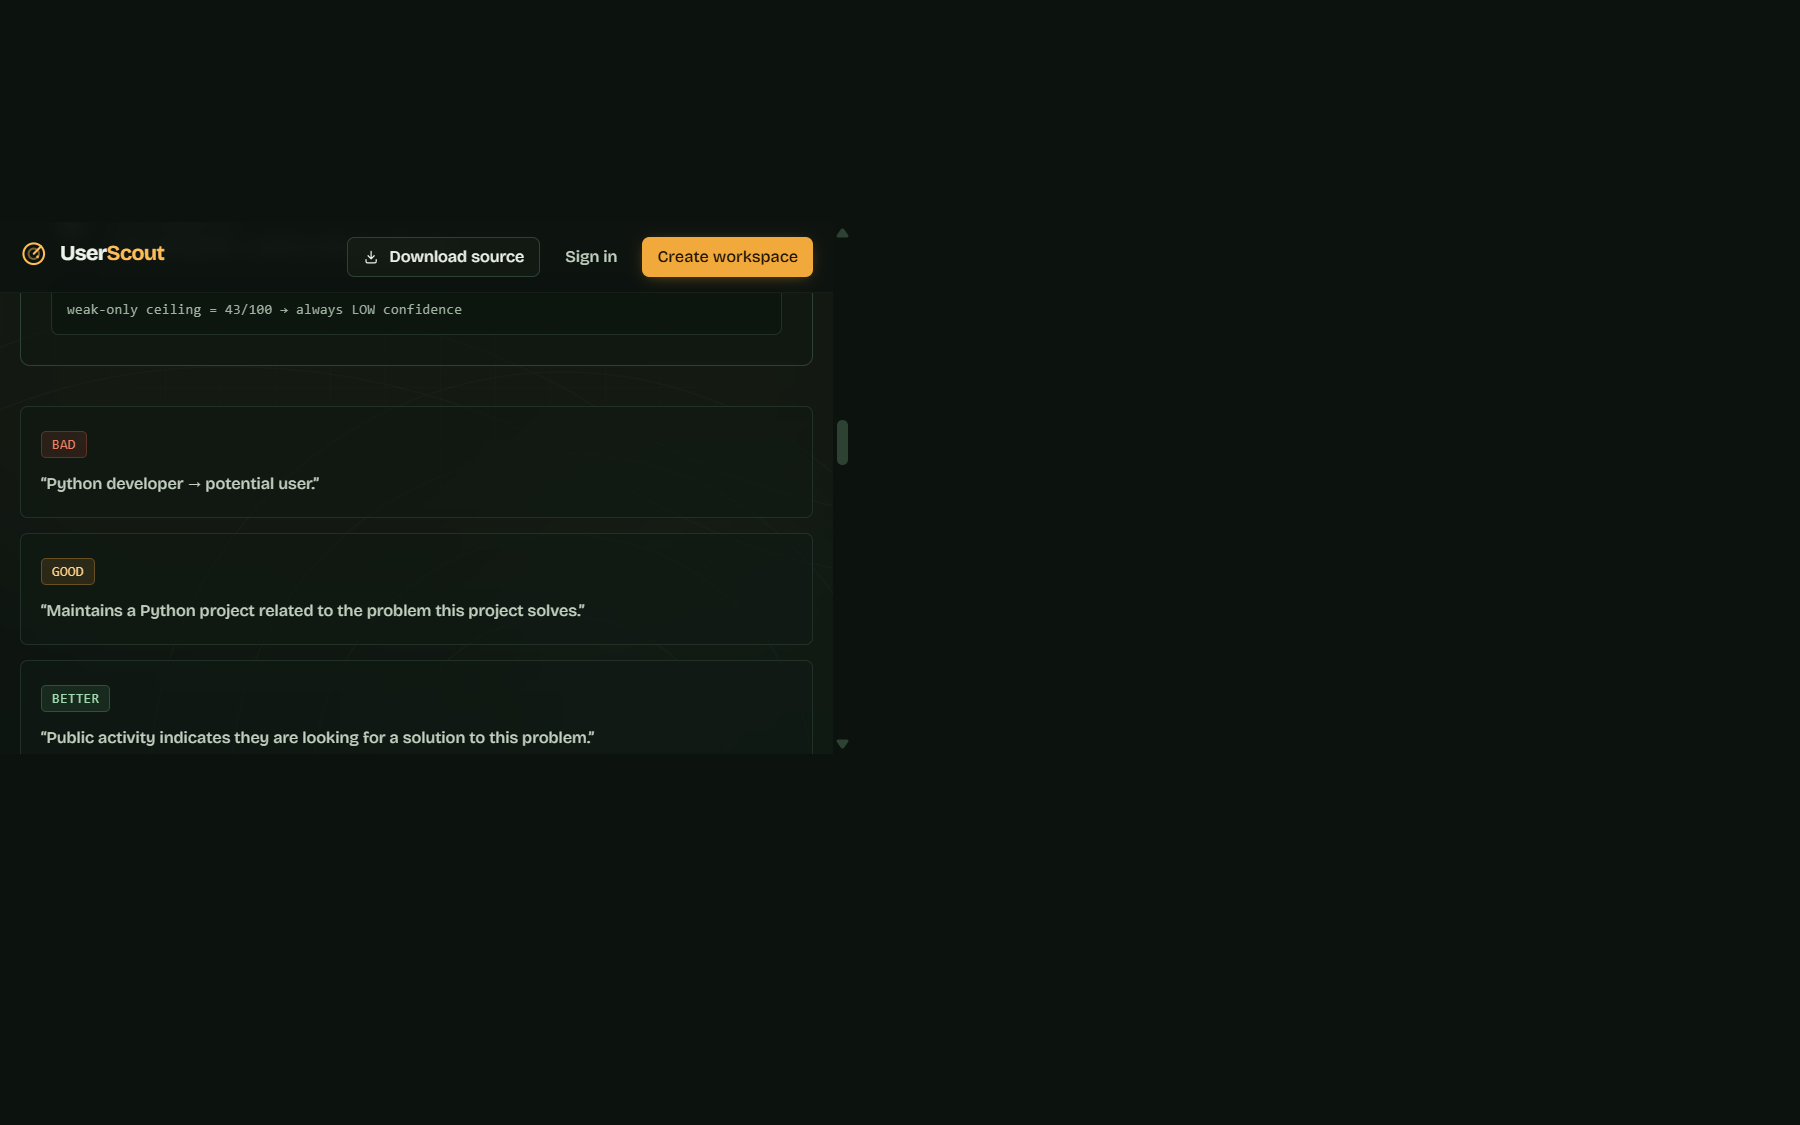
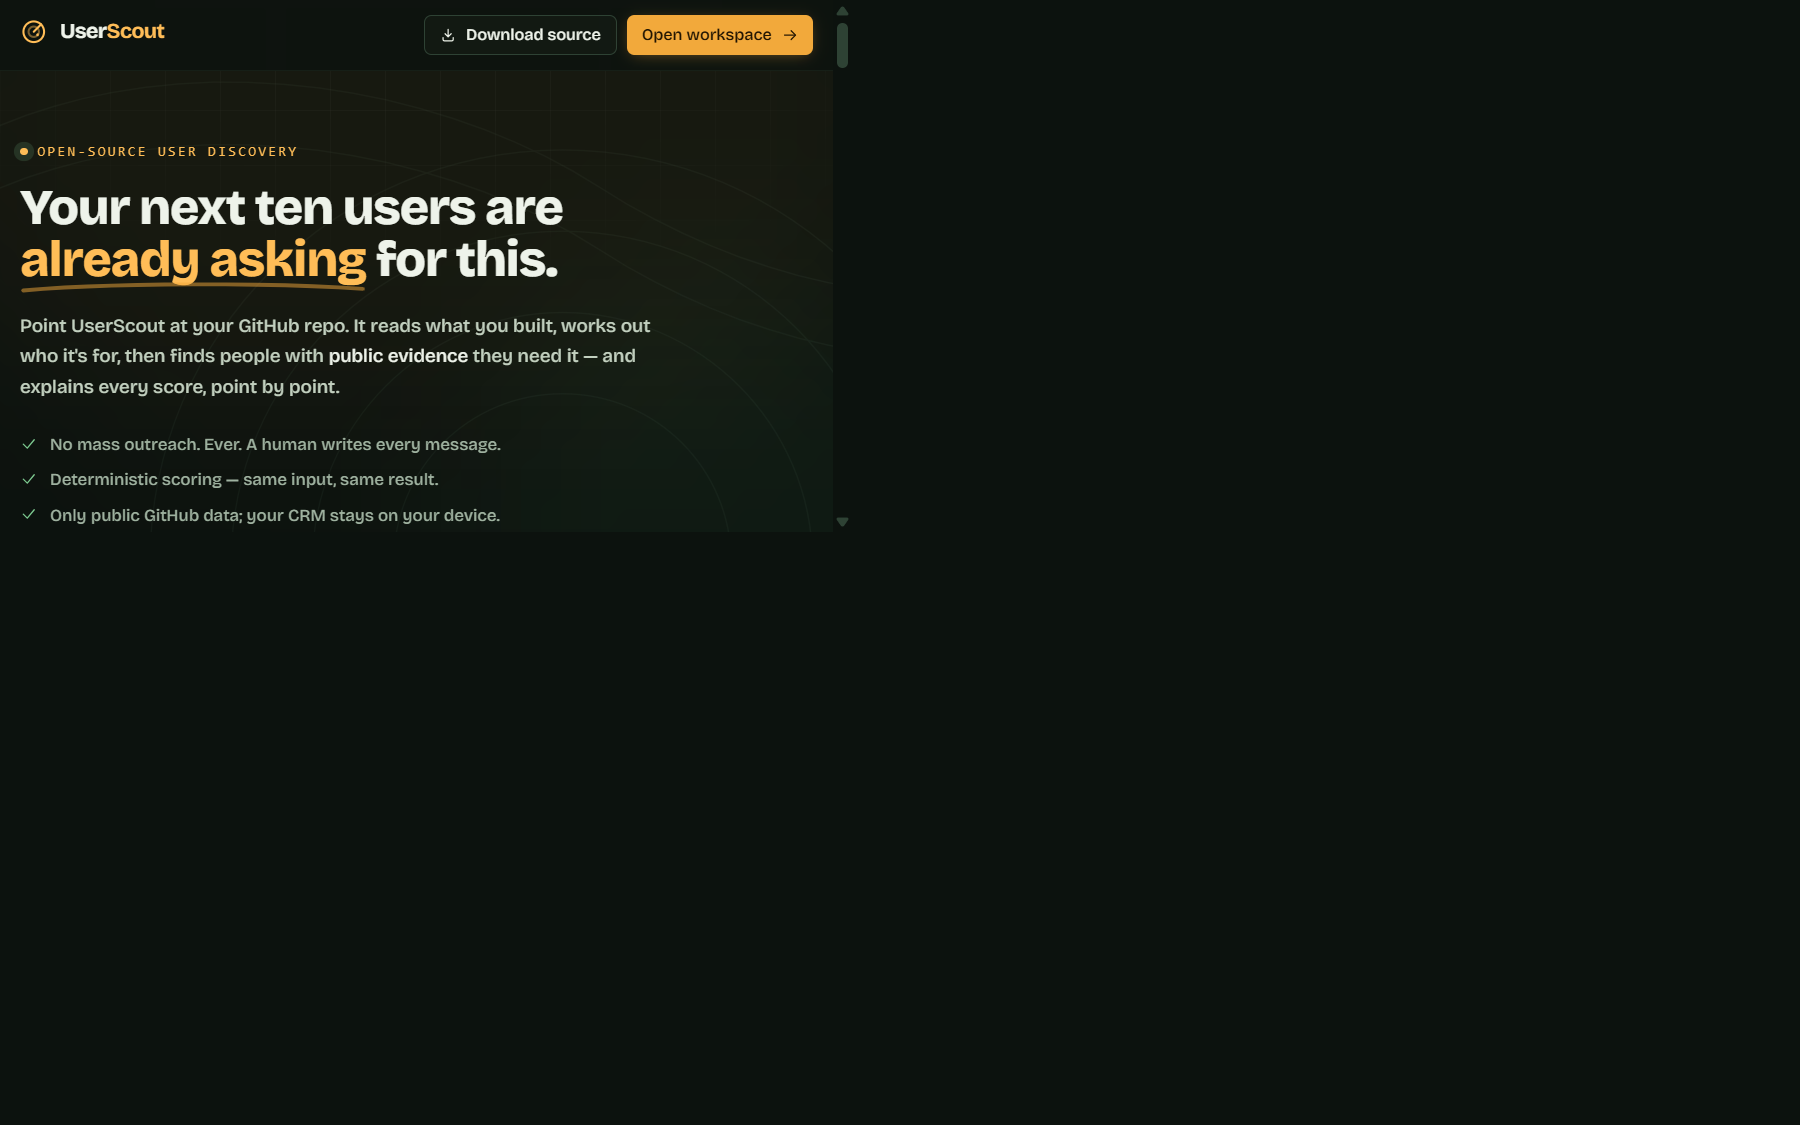
docs: polish README and product screenshots

diff --git a/README.md b/README.md
@@ -1,204 +1,162 @@
 # UserScout
 
-> **Find people who actually need what you built.**
+> Find people who actually need what you built.
 
-UserScout is an open-source user-discovery platform for developers who build open-source
-projects but struggle to find real users and meaningful feedback. Point it at a public
-GitHub repository and it will:
+UserScout helps developers discover potentially relevant users for open-source projects using public GitHub activity and transparent evidence. It turns a repository into a shortlist of people to understand, not a list of people to spam.
 
-1. **Analyze** the project via the official GitHub API (metadata, topics, README, languages).
-2. **Derive** the likely problem space, target audience, and search vocabulary — deterministically.
-3. **Discover** people with *public evidence* of needing the project (open issues asking about the
-   problem, related repos they maintain, related projects they contribute to).
-4. **Score** each prospect 0–100 with a transparent, deterministic, testable model.
-5. **Explain** every score: signal breakdown + links to the exact public activity behind it.
-6. Track the human part: **save → personally contact → reply → trial → feedback → user**,
-   with private notes, a manual outreach workspace, and a conversion funnel computed from
-   your own records only.
+![UserScout landing page](docs/screenshots/landing.png)
 
-**Philosophy: QUALITY > QUANTITY.** UserScout refuses to be a spam platform. See [Hard limits](#hard-limits-what-userscout-will-not-do).
+## Why UserScout?
 
-## Screenshots
+Building a project is only half the work. Finding people who genuinely care about it is difficult.
 
-These captures show the real product UI and empty states; no sample users, prospects, or
-conversion numbers are fabricated.
-
-![Landing page](docs/screenshots/landing.png)
-![Workspace](docs/screenshots/dashboard.png)
-![Outreach workspace](docs/screenshots/outreach.png)
-![Community](docs/screenshots/community.png)
-![Add project](docs/screenshots/project-new.png)
+UserScout helps you research potential users from observable public signals instead of guessing. Every result explains why it surfaced, links to the public evidence, and leaves the outreach decision with you.
 
 ## How it works
 
-1. Add a public GitHub project.
-2. Review the deterministic project analysis.
-3. Run discovery against public GitHub activity.
-4. Inspect the evidence and relevance score.
-5. Save prospects and write personal outreach yourself.
-6. Track replies, trials, feedback, and conversions.
+1. Add your GitHub project.
+2. Review the project analysis.
+3. Discover potentially relevant people.
+4. Review the public evidence.
+5. Save prospects.
+6. Reach out personally.
+7. Track replies, trials, feedback, and conversions.
+
+## What makes UserScout different?
+
+- **Evidence over guesses:** recommendations are tied to public GitHub activity.
+- **Quality over quantity:** weak context cannot masquerade as intent.
+- **Transparent scoring:** every relevance score has a visible breakdown.
+- **Human-controlled outreach:** UserScout never sends messages for you.
+- **Public-data first:** private information is not scraped or modeled.
+- **Open source:** the project is MIT licensed and its core logic is testable.
+
+## Screenshots
+
+### Find relevant people
+
+Discovery presents multiple candidates efficiently, with a score, confidence, source, explanation, and expandable evidence.
+
+![Discovery results](docs/screenshots/discover.png)
+
+### Understand why they are relevant
+
+The prospect view connects the score to public evidence and gives you a private, manual workspace for notes and drafts.
+
+![Prospect detail](docs/screenshots/prospect-detail.png)
+
+### Manage the relationship
+
+The outreach workspace tracks your real pipeline from saved prospect to feedback and user, with no automated campaigns.
+
+![Outreach workspace](docs/screenshots/outreach-populated.png)
+
+### Your workspace
+
+Projects, analysis, and conversion metrics stay grounded in your own records.
+
+![Dashboard](docs/screenshots/dashboard.png)
+
+![Project analysis](docs/screenshots/project-detail.png)
+
+![Add a project](docs/screenshots/project-new.png)
+
+![Mobile layout](docs/screenshots/mobile.png)
+
+Screenshots were captured from the running application. Populated discovery screenshots use public data from the `vitejs/vite` repository; the displayed prospect is a real public GitHub result, not fabricated product activity.
+
+## Features
+
+- Public GitHub repository validation and analysis.
+- Deterministic keywords, problem space, audience, and query terms.
+- Evidence-backed discovery through issues, related repositories, and contributors.
+- Relevance scores with signal and confidence breakdowns.
+- Saved prospects with public source links.
+- Manual outreach drafts, private notes, and status timeline.
+- Feedback capture and a record-based conversion funnel.
+- Optional local community index for opted-in project metadata.
+- Static-host-friendly hash routing.
+
+## How scoring works
+
+The score is not a prediction that someone will become a user. It is a transparent relevance signal based on observable public evidence.
+
+| Signal | Maximum | What it means |
+| --- | ---: | --- |
+| Problem evidence | 30 | Publicly asks about or discusses the problem. |
+| Related project | 25 | Maintains a repository matching the project vocabulary. |
+| Related contributions | 15 | Contributes to closely related repositories. |
+| Technology match | 20 | Shares language or topic context. |
+| Recent activity | 15 | Relevant activity is recent. |
+| Audience alignment | 8 | Public bio or topics align with the derived audience. |
+
+Signals are capped at 100. Weak context signals cannot exceed 43 without a strong signal, so “uses the same language” is never presented as proof of need. Confidence is labeled high, medium, or low and can be checked against the breakdown.
+
+## Privacy and anti-spam principles
+
+UserScout is research and organization software, not an outreach automation tool. It:
+
+- does not send messages automatically;
+- does not run bulk outreach or follow-up sequences;
+- does not scrape private information or bypass authentication;
+- does not sell personal information;
+- keeps notes, drafts, and outreach history local in this build;
+- leaves every message and contact decision under human control.
 
 ## Tech stack
 
 - React 18 and TypeScript
-- Vite with Tailwind CSS
-- React Router hash routing for static hosting
+- Vite and Tailwind CSS
+- React Router hash routing
 - GitHub REST API for public repository and activity data
-- Browser `localStorage` for this local-first build
-
----
-
-## Quick start
-
-```bash
-npm install
-npm run dev                 # http://localhost:5173
-npm run build               # production build → dist/
-npm run typecheck           # strict TypeScript check
-```
-
-The static client uses unauthenticated public GitHub API requests. For authenticated production
-use, add a server-side proxy; never put a GitHub token in a `VITE_*` variable because Vite embeds
-it in the browser bundle.
-
-Create a workspace account (stored locally, PBKDF2-hashed), add your repo, run discovery,
-save prospects, and work them through the outreach pipeline.
+- Web Crypto API for local password hashing and IDs
+- Vitest for core regression tests
+- Browser `localStorage` through a replaceable storage adapter
 
 ## Architecture
 
-```
-src/
-├── core/                    # framework-free business logic (unit-testable)
-│   ├── types.ts             # domain model
-│   ├── utils.ts             # crypto (PBKDF2), ids, time, errors
-│   ├── storage.ts           # StorageAdapter interface + localStorage impl
-│   ├── github.ts            # GitHub API client, URL validation, rate limits
-│   ├── analysis.ts          # repo → ProjectProfile (keywords/audience/query terms)
-│   ├── discovery.ts         # evidence-gathering engine (issues/repos/contributors)
-│   ├── scoring.ts           # deterministic, documented scoring model
-│   └── services.ts          # auth/projects/prospects/outreach/feedback + ownership guards
-├── state/store.tsx          # reactive workspace state over services
-├── components/              # icons (hand-drawn SVG), ui primitives, domain widgets, shell
-└── pages/                   # Landing, Auth, Dashboard, ProjectNew, ProjectDetail,
-                             # Discovery, ProspectDetail, Outreach, Community
-```
+The application is organized into a framework-independent core, a reactive state layer, and a React UI. GitHub data flows through an interface into analysis and discovery; services enforce ownership before private records are read or changed.
 
-**Layering rules**
+See [docs/architecture.md](docs/architecture.md) for the data flow, boundaries, security model, and production deployment notes.
 
-- Business logic lives in `core/` — never in route handlers or components.
-- All persistence goes through `StorageAdapter`. The bundled `LocalStorageAdapter` makes this a
-  local-first build (everything stays in your browser). Swap in a server-backed adapter
-  (PostgreSQL behind an API) without touching services or UI — that's the production path.
-- External integrations sit behind interfaces (`GitHubClient`) so the transport is replaceable.
+## Local development
 
-**Data flow:** `GitHub API → analysis → discovery candidates → scoreCandidate → saveResults →
-prospects → outreach events / feedback → computeFunnel`.
-
-## Scoring model (deterministic & documented)
-
-| Signal | Max | Rule |
-|---|---|---|
-| Problem evidence | 30 | Publicly asked for / discussed the exact problem (issue title/body). Question-shaped: 30 · discussion: 20 |
-| Related project | 25 | Maintains a repo matching the project's query terms. 15 base + 5 per matched term (max +10) |
-| Contributes to related repos | 15 | Recent commits in closely related repos. 12 base, +3 for 2+ repos |
-| Technology match | 20 | Language match +8 · topic/keyword overlap +4 each (max +12). *Weak* |
-| Recent activity | 15 | ≤30d: 15 · ≤90d: 10 · ≤180d: 6 · ≤1y: 3. *Weak* |
-| Audience alignment | 8 | Bio/topics align with derived audience. *Weak* |
-
-- Signals sum, capped at 100.
-- **Confidence:** HIGH = score ≥ 70 *and* a strong signal ≥ 20 pts · MEDIUM = score ≥ 45 or any
-  strong signal · else LOW.
-- **Weak signals alone can never exceed 43/100.** "Uses Python" is context, not intent — a
-  weak-only candidate is always a LOW-confidence cold lead.
-- Same evidence in → same score out. No randomness, no black box. The model is implemented in
-  `src/core/scoring.ts` as pure functions, ready for property-based unit tests.
-
-## GitHub integration & security
-
-- **Official API only**, over HTTPS, fixed host `api.github.com`.
-- **SSRF-safe by construction:** repo input is validated against `github.com` with a strict
-  allow-list regex (`parseRepoInput` in `src/core/github.ts`); only the extracted `owner/repo`
-  is ever interpolated into request paths. Ports, credentials in URLs, and non-GitHub hosts
-  are rejected.
-- **No browser GitHub secrets.** This static client uses unauthenticated public API requests.
-  Authenticated production use requires a server-side proxy; never place a GitHub token in a
-  `VITE_*` variable because Vite embeds it in the browser bundle.
-- **Failures handled gracefully:** timeouts (9s AbortController), 404 (nonexistent/private repo),
-  403/429 rate limits with reset times surfaced in the UI, malformed JSON, network errors.
-- **Rate limiting respected on the client side:** discovery paces requests (~700ms apart) and
-  uses ≤ ~15 calls per run. The UI shows remaining core/search budget live.
-- **Passwords:** PBKDF2-SHA256, 150k iterations, random 16-byte salts. Never plaintext.
-- **Authorization:** every service call verifies `resource.ownerId === actorId` (IDOR
-  protection). Private notes, drafts, outreach history and feedback are never exposed
-  publicly; the community index shares only already-public repo metadata + username, and
-  only when the owner opts in.
-- **Input validation** on usernames, passwords, notes (2k), drafts (5k), ratings (1–5).
-- No raw HTML injection; React renders all external strings as text.
-
-## Hard limits — what UserScout will NOT do
-
-- ❌ automatic mass emails or bulk messaging
-- ❌ automated outreach campaigns / sequences
-- ❌ scraping private information or bypassing auth / API restrictions
-- ❌ collecting unnecessary personal data (only public GitHub fields are modeled)
-- ❌ selling or sharing personal information
-- ❌ inventing statistics — funnel metrics are computed from your own rows, or not shown
-
-The human developer writes every message and presses send themselves, from their own
-accounts. UserScout provides *context for personalized outreach*, nothing more.
-
-## Environment variables
-
-See [.env.example](.env.example).
-
-| Variable | Required | Purpose |
-|---|---|---|
-| None | — | Use a server-side proxy for authenticated GitHub requests in production. |
-
-## Testing
-
-The scoring engine, URL validation, and service ownership guards have focused Vitest coverage:
+Requirements: Node.js 20 or newer.
 
 ```bash
+npm install
+npm run dev
 npm run test
 npm run typecheck
 npm run build
 ```
 
-The browser flow is manually smoke-tested against the Vite development server.
+Open the local URL printed by Vite. Create a workspace account, add a public repository, and run discovery. GitHub requests in this static build are unauthenticated; do not put tokens in `VITE_*` variables because Vite embeds them in the browser bundle.
 
-## Production deployment
+## Limitations
 
-- `npm run build` produces a static bundle (`dist/`) deployable to any static host
-  (Netlify, Vercel, GitHub Pages, S3). Use hash routing (already configured) or configure
-  SPA rewrites.
-- For multi-device / multi-user production use, implement a server-backed
-  `StorageAdapter` (PostgreSQL, row-level ownership) behind your API; `core/services.ts`
-  is already organized around ownership-guarded operations and needs no changes.
-- Add real OAuth (e.g. GitHub OAuth) server-side; the local PBKDF2 accounts in this build
-  demonstrate the ownership model but are device-local by design.
+- Accounts and CRM records are stored in browser `localStorage` on one device.
+- Local authentication demonstrates the ownership model but is not a server security boundary.
+- Unauthenticated GitHub rate limits can constrain discovery runs.
+- There is no backend API, OAuth provider, or server database in this repository.
+- True multi-user production deployment requires server-side sessions, a database-backed storage adapter, and a server-side GitHub proxy.
 
-### OAuth and database setup
+## Roadmap
 
-There is no OAuth provider, backend API, or server database in this repository. The included
-account flow and `LocalStorageAdapter` are intentionally local demonstrations. For production,
-add server-side OAuth/session handling, a server-side GitHub proxy, and a database-backed
-`StorageAdapter` with row-level ownership before storing sensitive or multi-device data.
+- [x] Public repository analysis and evidence-backed discovery
+- [x] Transparent scoring and manual outreach tracking
+- [x] Local-first persistence and focused core tests
+- [ ] Server-backed persistence
+- [ ] Production OAuth
+- [ ] Authenticated GitHub API proxy
+- [ ] Multi-device workspaces
+- [ ] Additional discovery sources
+- [ ] Data export
 
-## Known limitations (honest list)
+## Contributing
 
-1. **Local-first persistence.** Accounts and CRM data live in `localStorage` on one device.
-   Clearing site data clears them. Export-before-clear is a planned feature.
-2. **Client-side auth is a demonstration, not a security boundary.** Anyone with device
-   access can inspect `localStorage`. Do not treat this build as protecting truly sensitive
-   data; wire the server adapter for that.
-3. **Unauthenticated GitHub limits** (60 core/h, 10 search/min) throttle heavy discovery use.
-  Authenticated production use requires a server-side proxy.
-4. **Discovery quality follows repo quality.** Repos with no description/topics yield weak
-   query terms and weaker prospects — by design, the engine refuses to guess.
-5. Discovery dedupes per project; the same person can appear under two of your projects
-   (that's legitimate — different contexts).
+Read [CONTRIBUTING.md](CONTRIBUTING.md) before opening a pull request. Contributions should preserve evidence-based discovery, human-controlled outreach, accessible UI, and ownership checks.
 
 ## License
 
-MIT — see [LICENSE](LICENSE).
+MIT. See [LICENSE](LICENSE).

diff --git a/docs/architecture.md b/docs/architecture.md
@@ -1,0 +1,45 @@
+# UserScout architecture
+
+## Runtime shape
+
+UserScout is a React 18 and TypeScript single-page application built with Vite. Hash routing keeps the built site deployable to static hosts without server-side rewrites.
+
+The runtime has three layers:
+
+- `src/core/` contains domain types, pure analysis and scoring, GitHub transport, storage, and ownership-guarded services.
+- `src/state/store.tsx` creates the service boundary for React and reloads state after mutations.
+- `src/components/` and `src/pages/` render the product and collect user actions; they do not call storage directly.
+
+## Data flow
+
+```text
+public GitHub API
+  -> repository analysis
+  -> deterministic project profile
+  -> discovery candidates with evidence
+  -> transparent score and confidence
+  -> saved prospects
+  -> manual drafts, notes, statuses, feedback
+  -> record-based funnel
+```
+
+`GitHubClient` is an interface so transport can be replaced by a server-side proxy. `StorageAdapter` is also an interface; the current `LocalStorageAdapter` is intentionally local-first.
+
+## Security boundaries
+
+Repository input is restricted to `github.com` or `owner/repo` shorthand before values are interpolated into fixed `api.github.com` paths. Requests use a timeout and map common GitHub failures to human-readable errors.
+
+Private records carry an owner ID. Services check that ID before reading or mutating projects, prospects, notes, drafts, timeline events, and feedback. React renders external strings as text rather than raw HTML.
+
+The local account flow uses Web Crypto PBKDF2 password hashing, but browser storage is not a security boundary. Anyone with access to the device can inspect or modify local data. No GitHub token belongs in a `VITE_*` variable; Vite exposes those values in the browser bundle.
+
+## Production path
+
+A multi-user deployment needs:
+
+1. Server-side OAuth and session management.
+2. A database-backed `StorageAdapter` with enforced row-level ownership.
+3. A server-side GitHub API proxy for authenticated requests and rate-limit management.
+4. Production monitoring, rate limiting, backups, and security testing.
+
+Those changes can preserve the service and UI boundaries, but they are not included in this static local-first repository.
